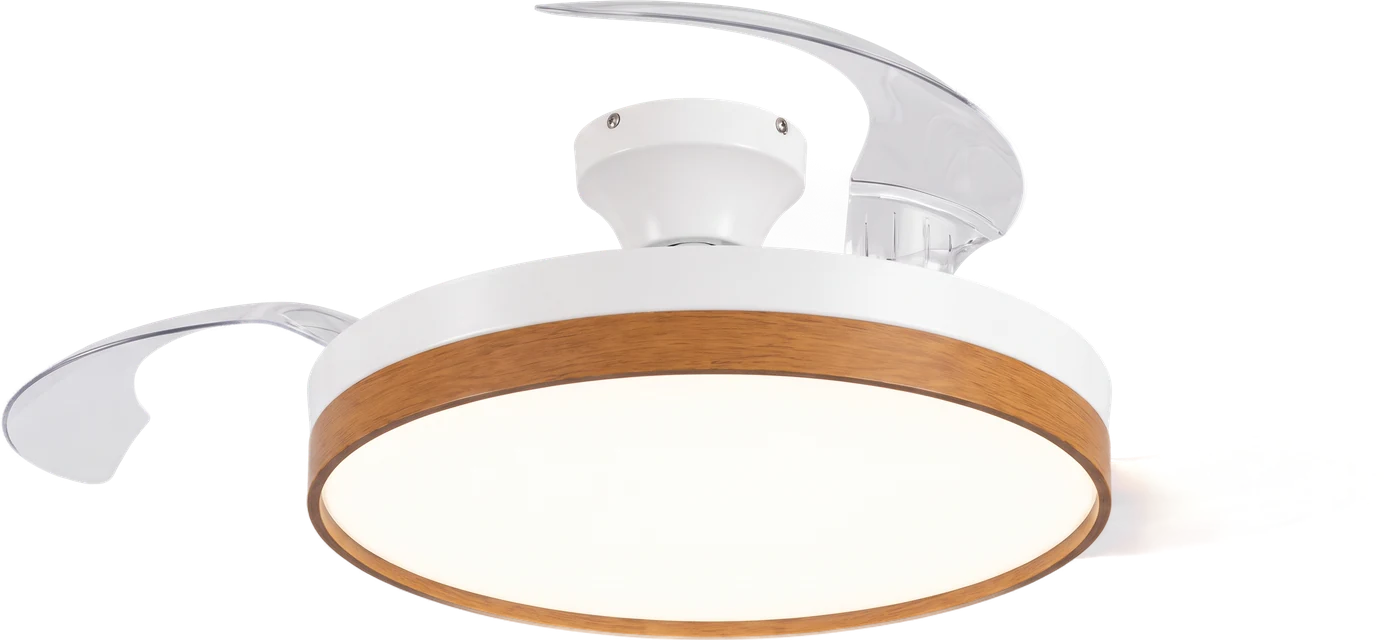
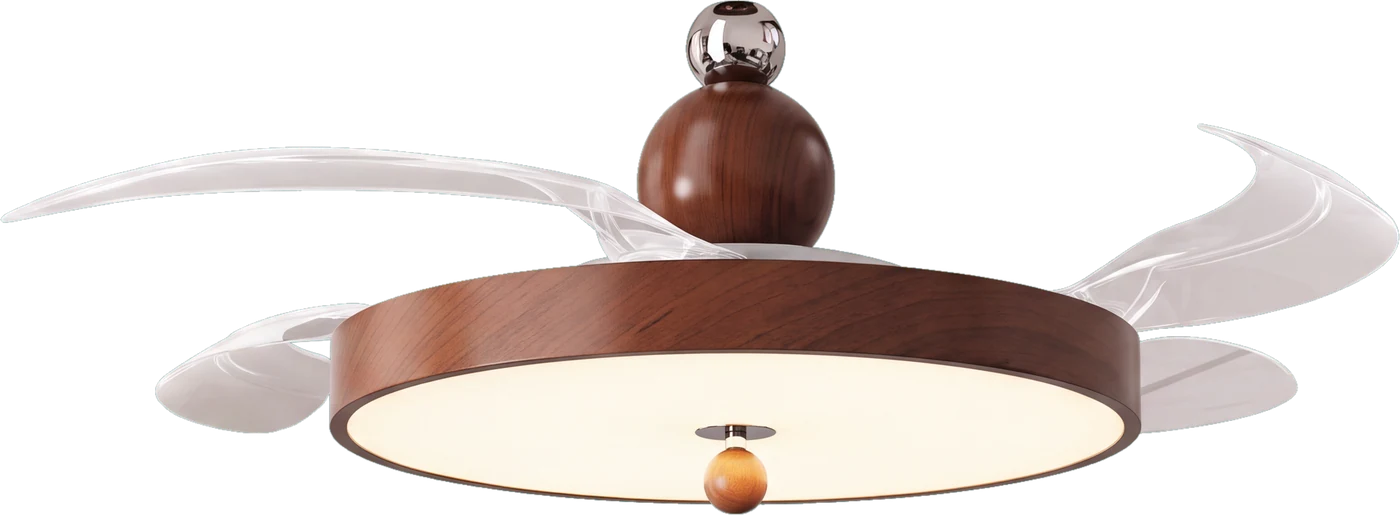
Ventiladores: modelo CLY en cada variante y foto de estudio del Madera CLY-CFL36 (sin publicar)
Claude-Session: https://claude.ai/code/session_01XsqePqNsr899Mjtsv3s8DJ

diff --git a/tienda.html b/tienda.html
@@ -650,7 +650,7 @@ const CATALOGO = {
       variantes: [['8 pies', img('nevera-8'), null, null, 'agotado', 'CW-218RF'], ['11 pies', img('nevera-11'), null, 24000, '', 'CW-268RF · con dispensador de agua']],
       rasgos: ['Enfriamiento rápido', '110V · 60Hz'] },
     { nombre: 'Ventilador de techo 42"', sub: 'Luz LED · control remoto', tonos: ['#9f7c2c', '#94673e', '#e4e7ea', '#3a3d43'], corto: '42"',
-      variantes: [['Cristal', img('fan-cristal'), null, 5990], ['Madera', img('fan-madera'), null, 3900], ['White', img('fan-white'), null, 3900], ['Black/White', img('fan-whiteblack'), null, 3900]],
+      variantes: [['Cristal', img('fan-cristal'), null, 5990, '', 'CLY-CFL19 · luz LED regulable'], ['Madera', img('fan-madera'), null, 3900, '', 'CLY-CFL36 · luz LED'], ['White', img('fan-white'), null, 3900, '', 'CLY-CFL26 · luz LED'], ['Black/White', img('fan-whiteblack'), null, 3900, '', 'CLY-CFL30 · luz LED']],
       rasgos: ['3 velocidades', 'Motor silencioso', 'Control remoto'] },
   ],
   gTec: [

diff --git a/docs/bitacora/2026-09-26-1909-claude.md b/docs/bitacora/2026-09-26-1909-claude.md
@@ -1,0 +1,25 @@
+# Ventiladores Madera, White y Black/White: precios, modelos y foto del Madera (sin publicar)
+
+**Pedido del dueño:** «Incluye esos tres abanicos en 2900 a precio mayorista, 3900 cliente final», con las fichas de CLY-CFL30 (Black/White), CLY-CFL26 (White) y CLY-CFL36 (Madera).
+
+## Estado encontrado
+- Los precios ya eran esos:
+  - catálogo mayorista (`tienda_mayoristas_items`): 2,900;
+  - tienda (`tienda.html`): 3,900 para Madera, White y Black/White.
+- No hubo que cambiar precios.
+- **La foto del Madera era de otro modelo**: canopia blanca con aro de madera clara. El CLY-CFL36 del dueño tiene aro de nogal y una bola de madera en el tubo.
+
+## Cambios
+- **Catálogo mayorista (Supabase, en vivo, solo datos):**
+  - id 23 Madera: «CLY-CFL36 · Luz LED · control remoto · 3 velocidades».
+  - id 25 White: «CLY-CFL26 · …».
+  - id 24 Black/White: «CLY-CFL30 · …».
+- **`tienda.html`:** cada variante del ventilador muestra su modelo en el subtítulo (Cristal CLY-CFL19, Madera CLY-CFL36, White CLY-CFL26, Black/White CLY-CFL30).
+- **`img/tienda/hd/fan-madera.webp`:** foto de estudio nueva del CLY-CFL36.
+  - Generada con Buzzy (Nano Banana Pro, 4K) sobre fondo chroma verde, a partir de la foto del dueño.
+  - Recortada con `chroma.py`.
+  - Mismo nombre de archivo, así que la tienda y el catálogo la toman sin cambios.
+
+## Estado
+Commit en la rama `claude/fix-dock-breakpoint-860`. **No publicado.**
+Se publicará junto con las fotos de estudio de los TV y los 360° del M12 Blanco y Gris (commit 8f3b63e).
